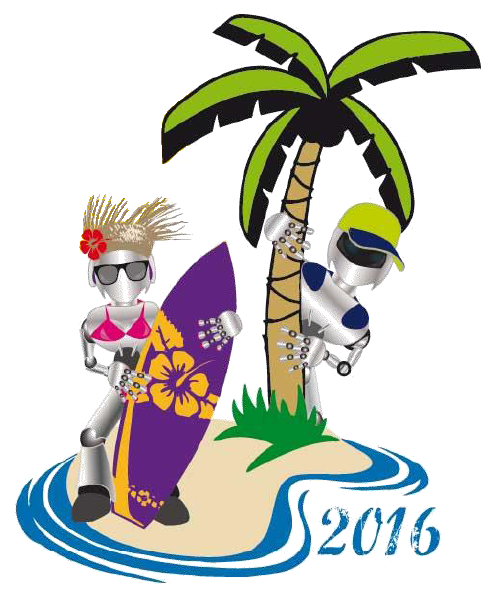
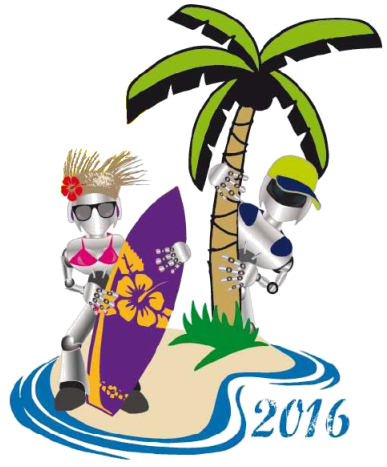
[Post][All] Add Coupe2016 post
new file:   _posts/2015-10-19-coupe2016.md
  modified:   coupes/2016/TheBeachBotsIcon.png
  modified:   coupes/2016/TheBeachBotsLogo.png

Changed region(s): [[0.0, 0.0, 0.9922, 0.9893], [0.3721, 0.3897, 0.4651, 0.4497], [0.3411, 0.4497, 0.3721, 0.4797]]

diff --git a/_posts/2015-10-19-coupe2016.md b/_posts/2015-10-19-coupe2016.md
@@ -1,0 +1,15 @@
+---
+layout: post
+title:  "Coupe de France de Robotique 2016 : plage & farniente"
+date:   2015-10-19 23:25:00
+categories: actualite robotique
+tags: robotique
+---
+
+Après une année à se pavaner sous les feux des projecteurs, nos robots vont prendre quelques couleurs à la plage.
+
+![Logo The BeachBots](/coupes/2016/TheBeachBotsLogo.png)
+
+C'est avec le [thème "The BeachBots"](coupes/2016) que Planète Sciences organise la coupe de France de robotique 2016
+
+Retrouvez toutes les informations de cette [nouvelle édition ici](http://www.planete-sciences.org/robot/index.php?section=pages&pageid=133)
